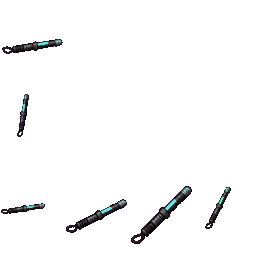
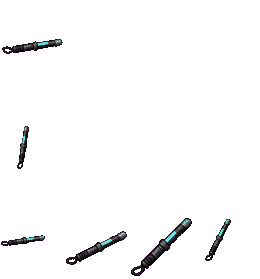
AI spawns unarmed; fix baton hand placement and grenade scale
Three fixes, none of which touch weapon mechanics (damage, recoil, rate
of fire, ammo, reload, fuse timing, projectile behaviour, colliders,
grab/spawn offsets and frame indices are all unchanged):

1. AI players no longer spawn holding a sword. Upstream Jumpy handed every
   AI a sword at spawn by duplicating the sword's hydrate logic inline in
   hydrate_players (its own comment called this "pretty hacky"). Removed,
   so AI players start empty-handed and pick weapons up off the map like
   human players. The AiPlayer marker - what actually makes them behave as
   AI - is untouched. This also correct an earlier claim I made that AI
   already picked weapons up normally; it did not.

2. Shock Baton sat above the hand instead of in it, both idle and mid
   swing. The pack art placed every held/swing frame ~32px higher inside
   its 93px cell than the art it replaced, while grab_offset, fin_offset
   and the swing damage regions were all tuned against Jumpy's layout.
   Fixed in the sheet, not in config: frames 4 (held) and 8-11 (swing)
   shifted down 32px inside their own cells, restoring the held frame's
   content centre to Jumpy's original y=54.5. Frame 0 (on the ground)
   already matched and is untouched. Pure translation, no resample.

3. Frag Grenade drew about half the size of the art it replaced, and its
   three lit-fuse frames sat at inconsistent heights so the animation
   jittered. Sheet rebuilt at 2x tile size (50x104, same 2x3 grid) with
[…]

diff --git a/src/core/player.rs b/src/core/player.rs
@@ -584,7 +584,6 @@ pub fn player_collider_shape(meta: &PlayerMeta) -> ColliderShape {
 }
 
 fn hydrate_players(
-    mut commands: Commands,
     mut entities: ResMutInit<Entities>,
     game_meta: Root<GameMeta>,
     player_inputs: Res<MatchInputs>,
@@ -802,76 +801,11 @@ fn hydrate_players(
         if is_ai {
             ai_players.insert(player_entity, default());
 
-            // Give the player a sword NOTE: It's not good that we're duplicating the sword hydrate
-            // functionality here, and this is pretty hacky, but the AI as it stands is temporary
-            // anyway, so it's fine for now.
-            commands.add(
-                move |mut entities: ResMutInit<Entities>,
-                      mut swords: CompMut<sword::Sword>,
-                      mut element_handles: CompMut<ElementHandle>,
-                      assets: Res<AssetServer>,
-                      mut hydrated: CompMut<MapElementHydrated>,
-                      mut bodies: CompMut<KinematicBody>,
-                      mut atlas_sprites: CompMut<AtlasSprite>,
-                      mut items: CompMut<Item>,
-                      mut transforms: CompMut<Transform>,
-                      game_meta: Root<GameMeta>,
-                      mut attachments: CompMut<PlayerBodyAttachment>,
-                      mut inventories: CompMut<Inventory>| {
-                    let element_handle = game_meta
-                        .core
-                        .map_elements
-                        .iter()
-                        .find(|handle| {
-                            assets
-                                .get(assets.get(**handle).data)
-                                .try_cast_ref::<SwordMeta>()
-                                .is_ok()
-                        })
-                        .unwrap();
-                    let element_meta = assets.get(*element_handle);
-                    if let Ok(SwordMeta {
-                        atlas,
-                        body_size,
-                        can_rotate,
-                        bounciness,
-                        grab_offset,
-                        ..
-                    }) = assets.get(element_meta.data).try_cast_ref()
-                    {
-                        let sword_ent = entities.create();
-                        inventories.insert(player_entity, Inventory(Some(sword_ent)));
-                        items.insert(sword_ent, Item);
-                        swords.insert(sword_ent, sword::Sword::default());
-                        atlas_sprites.insert(sword_ent, AtlasSprite::new(*atlas));
-                        transforms.insert(sword_ent, default());
-                        element_handles.insert(sword_ent, ElementHandle(*element_handle));
-                        hydrated.insert(sword_ent, MapElementHydrated);
-                        bodies.insert(
-                            sword_ent,
-                            KinematicBody {
-                                shape: ColliderShape::Rectangle { size: *body_size },
-                                has_mass: true,
-                                has_friction: true,
-                                can_rotate: *can_rotate,
-                                bounciness: *bounciness,
-                                gravity: game_meta.core.physics.gravity,
-                                ..default()
-                            },
-                        );
-                        attachments.insert(
-                            sword_ent,
-                            PlayerBodyAttachment {
-                                sync_color: false,
-                                sync_animation: false,
-                                player: player_entity,
-                                head: false,
-                                offset: grab_offset.extend(1.0),
-                            },
-                        );
-                    }
-                },
-            );
+            // Upstream Jumpy handed every AI player a sword here, at spawn, by
+            // duplicating the sword's hydrate logic inline. Removed: AI players
+            // now start empty-handed and have to pick weapons up off the map
+            // like human players do. Their inventory is left at the `default()`
+            // (empty) inserted above with the other shared player components.
         }
     }
 

diff --git a/custom-assets/weapons/_pack-original/README.md b/custom-assets/weapons/_pack-original/README.md
@@ -1,0 +1,27 @@
+# Pristine pack art (provenance)
+
+Untouched originals, exactly as delivered in
+`jumpy_industrial_texture_pack.zip`, for the two items whose sheets were
+adjusted afterwards. Kept so the adjustment stays reviewable and can be
+redone from source if the pack is revised.
+
+Both adjustments were purely layout inside the atlas cells - no gameplay
+code, collider, timing or frame index changed:
+
+- `shock_baton.png` - the pack put every held/swing frame ~32px higher
+  inside its 93px-tall cell than Jumpy's own sword art did, so the baton
+  floated above the hand rather than sitting in it. Frames 4 (held) and
+  8-11 (swing) were shifted down 32px inside their own cells, which puts
+  the held frame's content centre back on Jumpy's original y=54.5. Frame 0
+  (lying on the ground) already matched and was left alone. Pure
+  translation - no rescale, no resample.
+
+- `frag_grenade.png` - content was about half the size of the art it
+  replaced, and the three lit-fuse frames (3/4/5) sat at inconsistent
+  heights, so the animation jittered. The sheet was rebuilt at 2x tile
+  size (50x104 instead of 25x52, same 2x3 grid) with each frame's content
+  scaled 2x nearest-neighbour and placed at 2x Jumpy's own per-frame
+  content centre. `scripts/apply-weapon-textures.sh` patches the atlas
+  `tile_size` to match. Collider (`body_diameter: 15`), fuse time, throw
+  velocity and explosion damage are all unchanged - the grenade only
+  *draws* twice as large.
